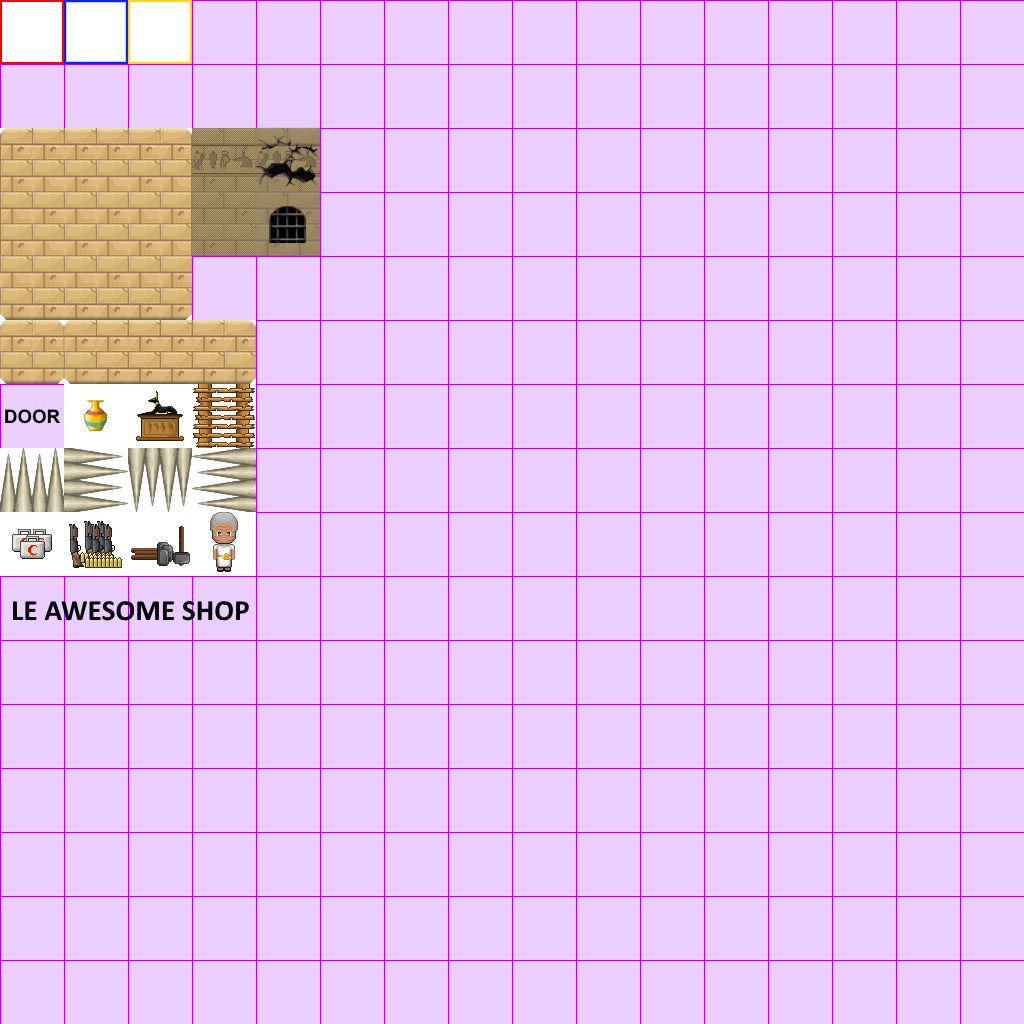
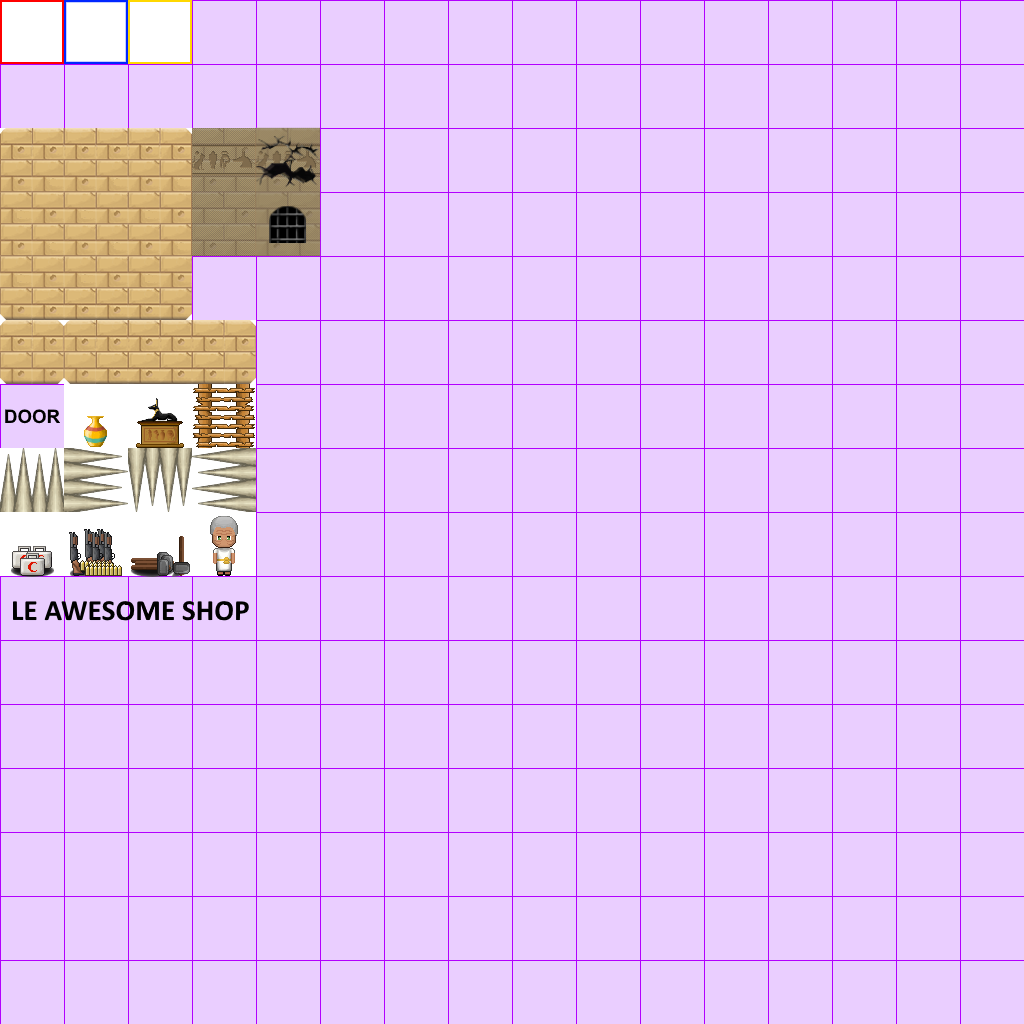
Pharaoh and small fixes.

Changed region(s): [[0.0, 0.5, 0.25, 0.5625], [0.0625, 0.375, 0.1875, 0.4375]]

diff --git a/core/src/pt/feup/jd/entities/Pharaoh.java b/core/src/pt/feup/jd/entities/Pharaoh.java
@@ -1,0 +1,66 @@
+package pt.feup.jd.entities;
+
+import pt.feup.jd.Assets;
+import pt.feup.jd.JDGame;
+import pt.feup.jd.Sprite;
+import pt.feup.jd.Util;
+import pt.feup.jd.levels.Level;
+
+public class Pharaoh extends Enemy {
+
+	static Sprite default_anim;
+	static Sprite active_anim;
+	static boolean initSprites = false;
+	static void initSprites() {
+		initSprites = true;
+		
+		default_anim = new Sprite();
+		default_anim.addFrame(Assets.sprites64[5][5]);
+		
+		active_anim = new Sprite();
+		active_anim.anim_delay = 0.25f;
+		active_anim.addFrame(Assets.sprites64[5][6]);
+		active_anim.addFrame(Assets.sprites64[5][7]);
+	}
+	
+	float attack_damage;
+	float attack_timer, attack_delay;
+	
+	
+	public Pharaoh(Level level) {
+		super(level);
+		
+		if (!initSprites) initSprites();
+		
+		sprite = default_anim;
+		
+		hx = 32;
+		hy = 48;
+			
+		attack_damage = 25;
+		attack_timer = 0;
+		attack_delay = 3;
+	}
+	
+	@Override
+	public void update(float delta) {
+		super.update(delta);
+		
+		attack_timer = Util.stepTo(attack_timer, 0, delta);
+		
+		if (range < 0 || inRange_timer > 0) {
+			sprite = active_anim;
+			Player p = level.player;
+			if (attack_timer == 0 && p != null) {
+				BallOfMagic b = (BallOfMagic) new BallOfMagic(level).moveTo(x, y);
+				b.rotation = Util.pointDirection(x,y, p.x, p.y);
+				float s = 3f*JDGame.TILE_SIZE;
+				b.vx = s*(p.x-x)/distanceToPlayer;
+				b.vy = s*(p.y-y)/distanceToPlayer;
+				
+				attack_timer = attack_delay;
+			}
+		} else
+			sprite = default_anim;
+	}
+}

diff --git a/core/src/pt/feup/jd/entities/BallOfMagic.java b/core/src/pt/feup/jd/entities/BallOfMagic.java
@@ -1,0 +1,55 @@
+package pt.feup.jd.entities;
+
+import com.badlogic.gdx.graphics.g2d.SpriteBatch;
+
+import pt.feup.jd.Assets;
+import pt.feup.jd.Sprite;
+import pt.feup.jd.Util;
+import pt.feup.jd.levels.Level;
+import pt.feup.jd.levels.Tile;
+
+public class BallOfMagic extends Entity {
+
+
+	static Sprite default_anim;
+	static boolean initSprites = false;
+	static void initSprites() {
+		initSprites = true;
+		default_anim = new Sprite();
+		default_anim.anim_delay = 1/20f;
+		default_anim.addFrame(Assets.sprites64[6][0]);
+		default_anim.addFrame(Assets.sprites64[6][1]);
+		default_anim.addFrame(Assets.sprites64[6][2]);
+		default_anim.addFrame(Assets.sprites64[6][1]);
+	}
+	
+	float damage;
+	
+	public BallOfMagic(Level level) {
+		super(level);
+		
+		if (!initSprites) initSprites();
+		
+		sprite = default_anim;
+		
+		applyGravity = false;
+		
+		hx = 8;
+		hy = 8;
+		
+		damage = 25;
+	}
+	
+	@Override
+	public void levelCollision(float x, float y, Tile t) {
+		super.levelCollision(x, y, t);
+		
+		remove = true;
+	}
+
+	@Override
+	public void renderLight(SpriteBatch batch) {		
+		Util.drawLight(batch, x, y, 2.5f, 2.5f, 1, 0.5f, 1f, 1f);
+	}
+	
+}

diff --git a/core/src/pt/feup/jd/levels/Level.java b/core/src/pt/feup/jd/levels/Level.java
@@ -22,6 +22,7 @@ import pt.feup.jd.Util;
 import pt.feup.jd.entities.Enemy;
 import pt.feup.jd.entities.Entity;
 import pt.feup.jd.entities.Mummy;
+import pt.feup.jd.entities.Pharaoh;
 import pt.feup.jd.entities.Player;
 import pt.feup.jd.entities.Snake;
 import pt.feup.jd.levels.tileentities.FireballTrap;
@@ -176,9 +177,11 @@ public class Level {
 					Enemy e = null;
 					// Snake
 					if (type.equals("enemy-snake")) e = (Snake) new Snake(this).moveTo(p.x,p.y);
-					// Snake
+					// Mummy
 					if (type.equals("enemy-mummy")) e = (Mummy) new Mummy(this).moveTo(p.x,p.y);
-					
+					// Pharaoh
+					if (type.equals("enemy-pharaoh")) e = (Pharaoh) new Pharaoh(this).moveTo(p.x,p.y);
+
 					
 					// Common Properties
 					if (e != null) {

diff --git a/core/src/pt/feup/jd/entities/Enemy.java b/core/src/pt/feup/jd/entities/Enemy.java
@@ -18,6 +18,7 @@ public class Enemy extends Entity{
 	public float range;
 	float inRange_timer, inRange_delay;
 
+	float distanceToPlayer;
 	
 	public Enemy(Level level) {
 		super(level);
@@ -41,7 +42,9 @@ public class Enemy extends Entity{
 	public void update(float delta) {
 		super.update(delta);	
 		
-		if (level.player != null && Util.pointDistance(level.player, this) < range)	inRange_timer = inRange_delay;		
+		distanceToPlayer = Util.pointDistance(level.player, this);
+		
+		if (level.player != null &&  distanceToPlayer < range)	inRange_timer = inRange_delay;		
 		inRange_timer = Util.stepTo(inRange_timer, 0, delta);
 		
 		

diff --git a/core/src/pt/feup/jd/entities/Player.java b/core/src/pt/feup/jd/entities/Player.java
@@ -29,7 +29,9 @@ public class Player extends Entity {
 		initSprites = true;
 		
 		idle_anim = new Sprite();
-		idle_anim.addFrame(Assets.sprites64[1][0]);
+		idle_anim.anim_delay = 1/3f;
+		idle_anim.addFrame(Assets.sprites64[1][6]);
+		idle_anim.addFrame(Assets.sprites64[1][7]);
 		
 		walk_anim = new Sprite();
 		walk_anim.anim_delay = 1/8f;
@@ -163,6 +165,15 @@ public class Player extends Entity {
 		}
 		if (vx != 0 && onGround) gun_sway += delta;
 		
+	}
+	
+	public void entityCollision(Entity o) {
+		
+		if (o instanceof BallOfMagic) {
+			damage(((BallOfMagic) o).damage);
+			o.remove = true;
+		}
+
 	}
 	
 	@Override

diff --git a/core/src/pt/feup/jd/Util.java b/core/src/pt/feup/jd/Util.java
@@ -14,6 +14,7 @@ public class Util {
 
 	public static Random random = new Random();
 	public static float degToRad = (float) (Math.PI / 180);
+	public static float radToDeg = (float) (180 / Math.PI);
 	
 	
 	public static boolean between(float x, float a, float b) {
@@ -66,5 +67,9 @@ public class Util {
 
 	public static float pointDistance(Entity a, Entity b) {
 		return Util.pointDistance(a.x,a.y,b.x,b.y);
+	}
+
+	public static float pointDirection(float x, float y, float x2, float y2) {
+		return (float) Math.atan2(y2-y,x2-x)*radToDeg;
 	}
 }

diff --git a/core/src/pt/feup/jd/entities/Mummy.java b/core/src/pt/feup/jd/entities/Mummy.java
@@ -16,6 +16,7 @@ public class Mummy extends Enemy {
 		default_anim.addFrame(Assets.sprites64[4][4]);
 		default_anim.addFrame(Assets.sprites64[4][5]);
 		default_anim.addFrame(Assets.sprites64[4][6]);
+		default_anim.addFrame(Assets.sprites64[4][5]);
 	}
 	
 	float follow_timer, follow_delay;

diff --git a/core/src/pt/feup/jd/entities/Entity.java b/core/src/pt/feup/jd/entities/Entity.java
@@ -231,7 +231,7 @@ public class Entity {
 			damage(((Fireball) o).damage);
 			o.remove = true;
 		}
-		
+
 	}
 	
 	public Entity moveTo(float x, float y) {
